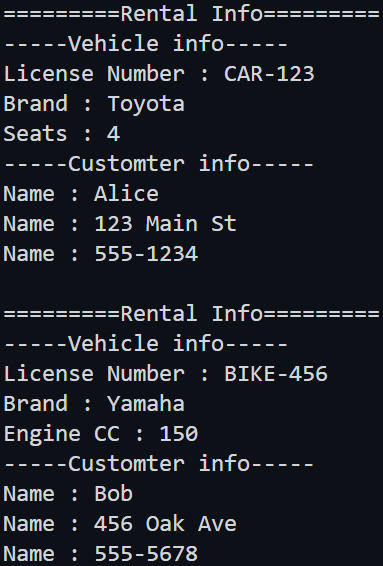
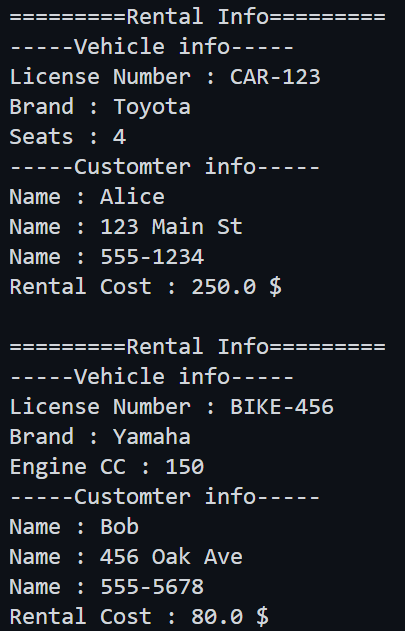
update question

diff --git a/All In One/1.md b/All In One/1.md
@@ -64,7 +64,7 @@ Define a `Rentable` interface that will be implemented by both `Car` and `Bike`:
 
 ```java
 interface Rentable {
-    void rentTo(Customer customer);
+    void rentTo(Customer customer, int dayss);
 }
 ```
 
@@ -125,9 +125,9 @@ public class Main {
         Bike bike = new Bike("BIKE-456", "Yamaha", 150);
 
         // Rent vehicles
-        car.rentTo(c1);
+        car.rentTo(c1, 5);
 
-        bike.rentTo(c2);
+        bike.rentTo(c2, 4);
     }
 }
 ```
